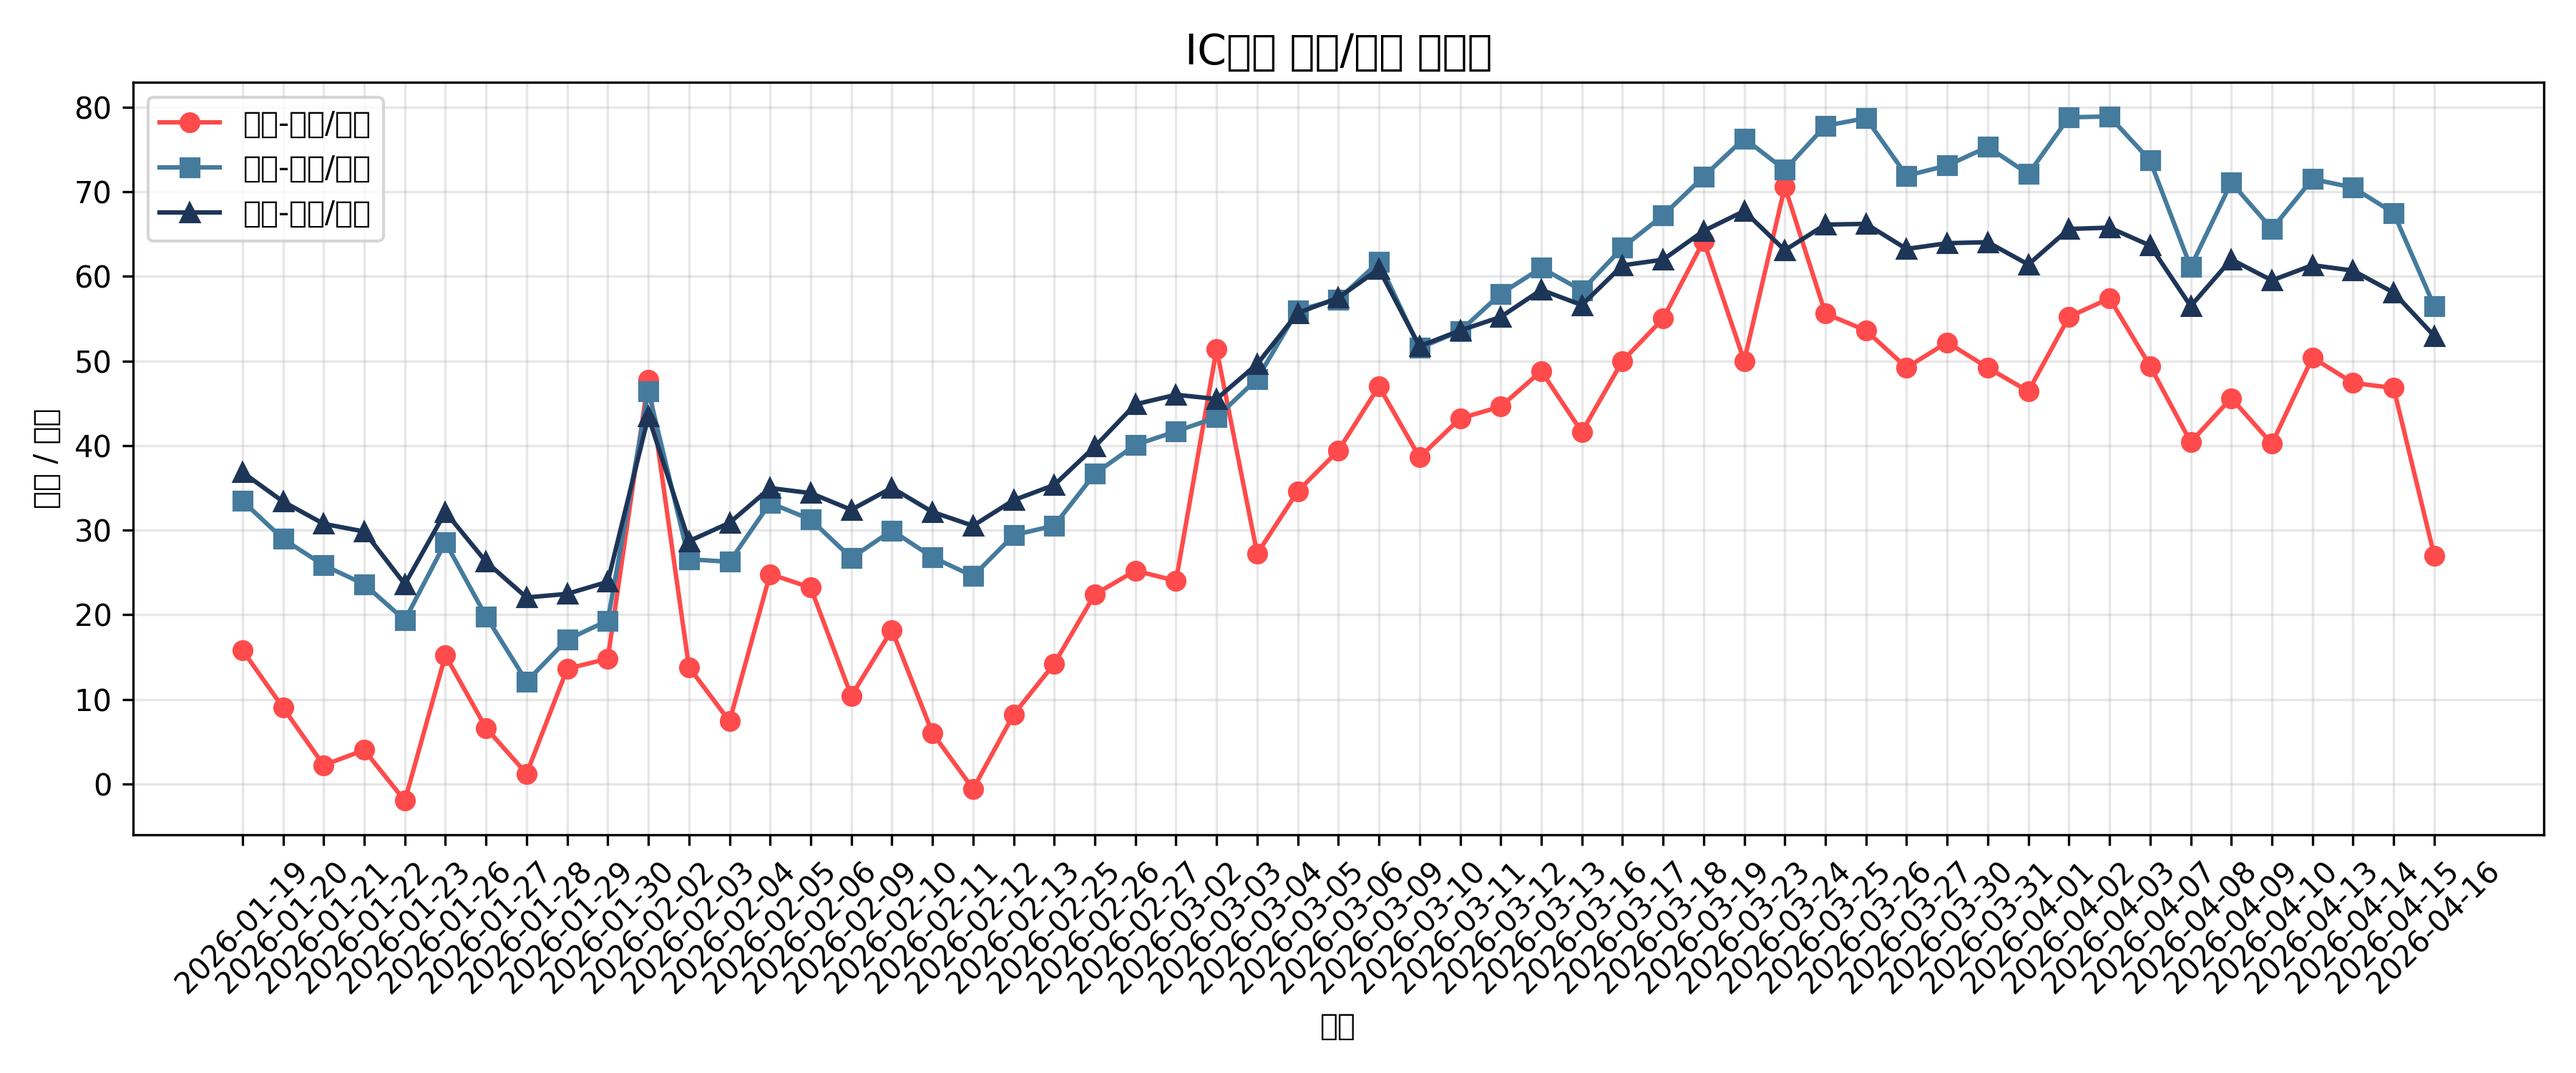
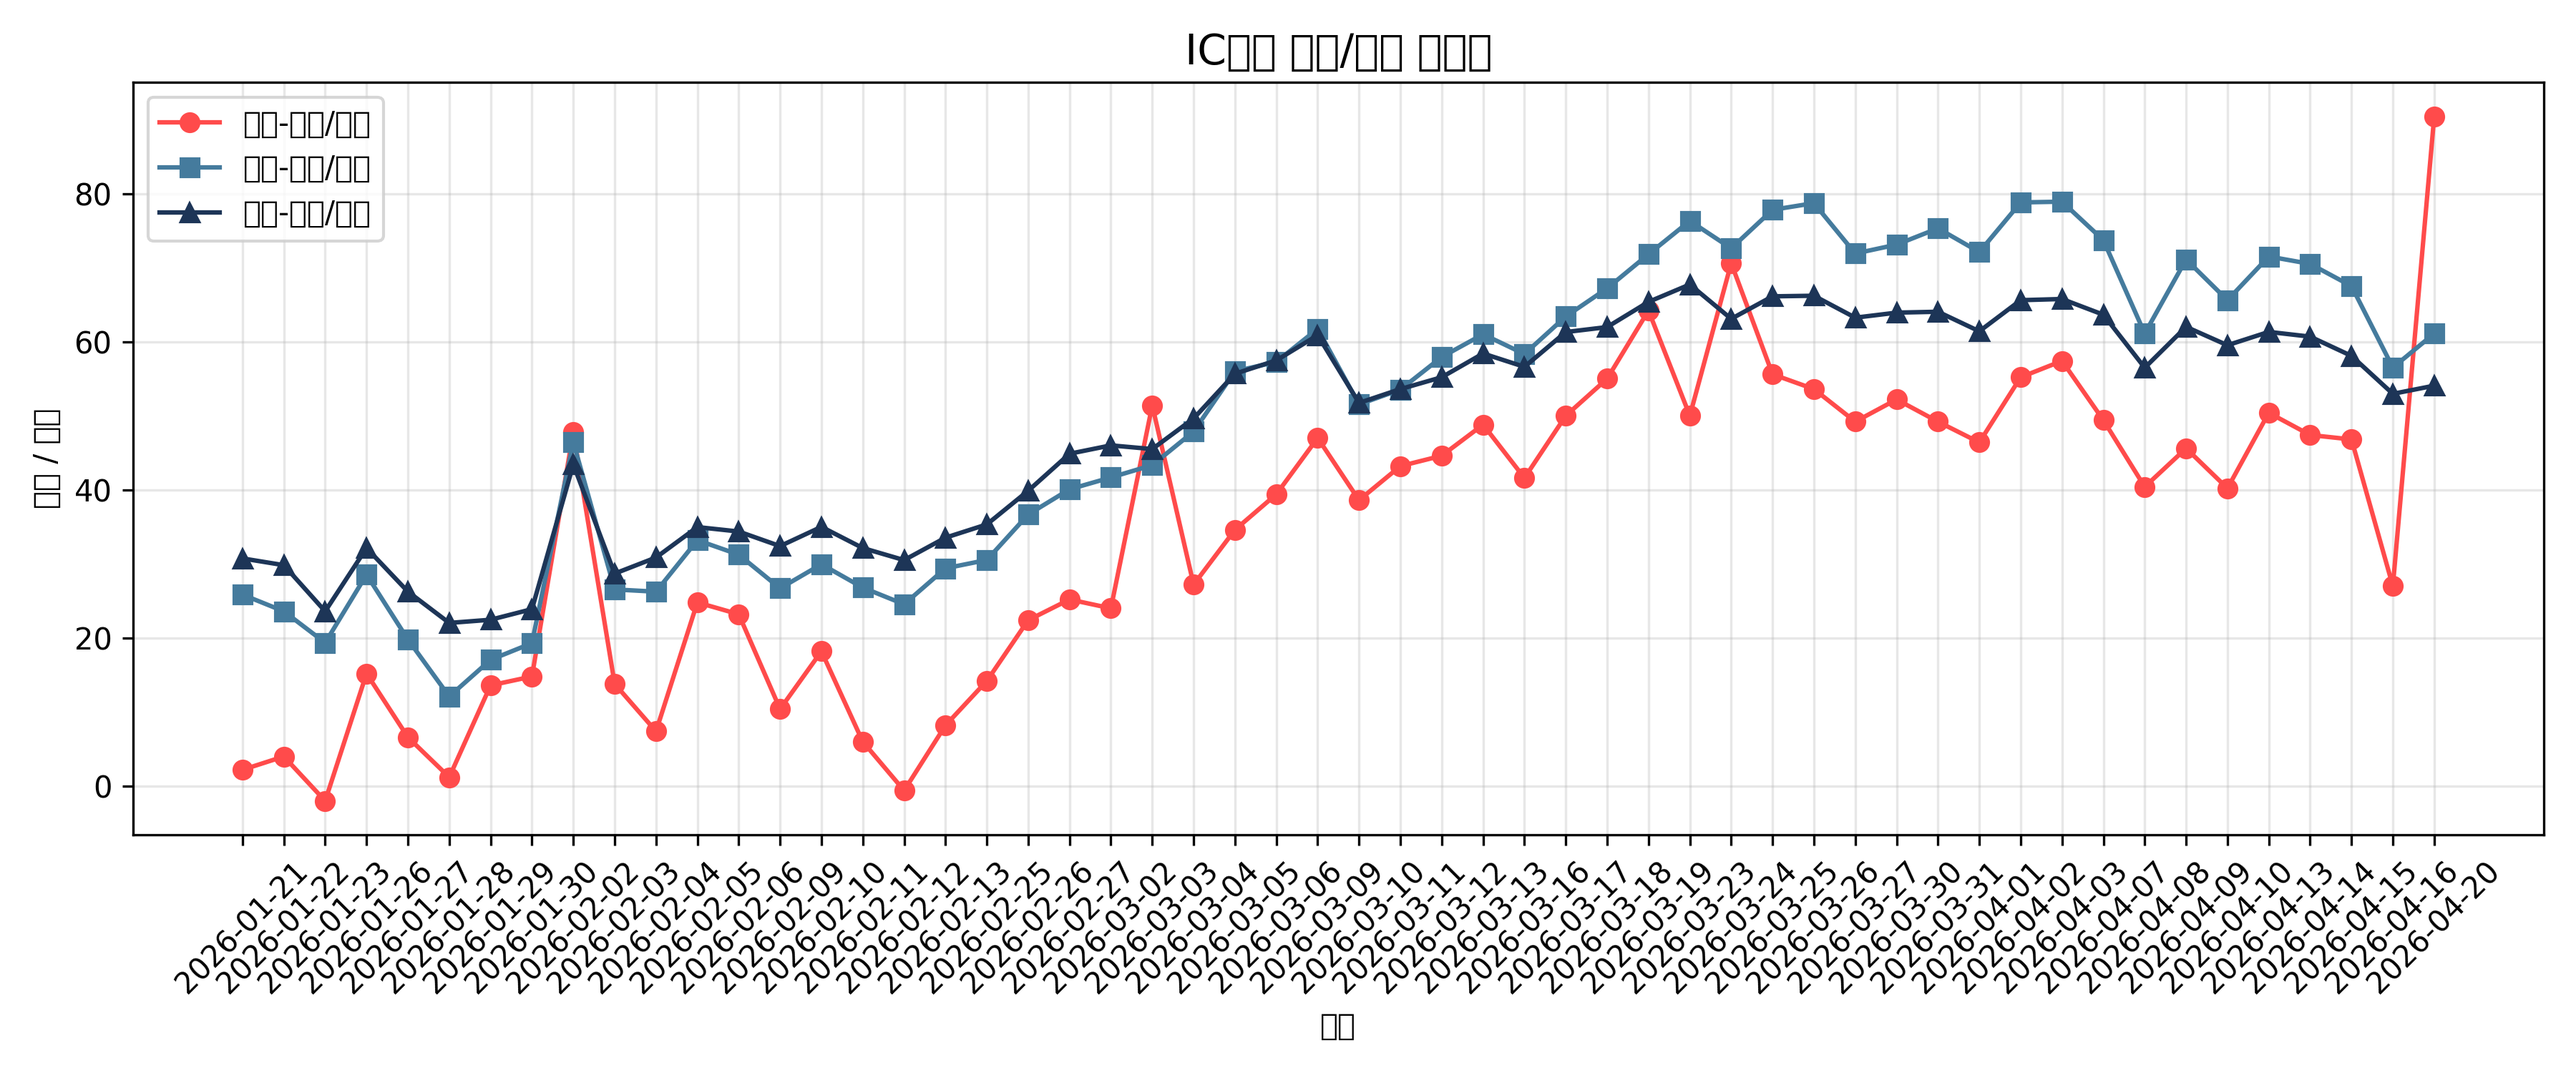
deploy: 4d1bb30b7b0bf8623cc214497fc979b4192c654b

diff --git a/index.html b/index.html
@@ -84,19 +84,19 @@
 <body>
     <div class="container">
         <h1>IC期货基差监控</h1>
-        <div class="last-updated">最后更新：2026-04-17 17:56:06</div>
+        <div class="last-updated">最后更新：2026-04-20 18:16:58</div>
         
         <div class="stats">
             <div class="stat-card">
-                <div class="stat-value">27.0</div>
+                <div class="stat-value">90.4</div>
                 <div class="stat-label">当月-下月/月差</div>
             </div>
             <div class="stat-card">
-                <div class="stat-value">56.5</div>
+                <div class="stat-value">61.1</div>
                 <div class="stat-label">当月-当季/月差</div>
             </div>
             <div class="stat-card">
-                <div class="stat-value">52.96</div>
+                <div class="stat-value">54.06</div>
                 <div class="stat-label">当月-下季/月差</div>
             </div>
         </div>
@@ -114,14 +114,6 @@
                 <th>当月-下月/月差</th>
                 <th>当月-当季/月差</th>
                 <th>当月-下季/月差</th>
-            </tr>
-
-            <tr>
-                <td>2026-04-08</td>
-                <td>IC2604</td>
-                <td>40.4</td>
-                <td>61.1</td>
-                <td>56.48</td>
             </tr>
 
             <tr>
@@ -170,6 +162,14 @@
                 <td>27.0</td>
                 <td>56.5</td>
                 <td>52.96</td>
+            </tr>
+
+            <tr>
+                <td>2026-04-20</td>
+                <td>IC2605</td>
+                <td>90.4</td>
+                <td>61.1</td>
+                <td>54.06</td>
             </tr>
 
         </table>
